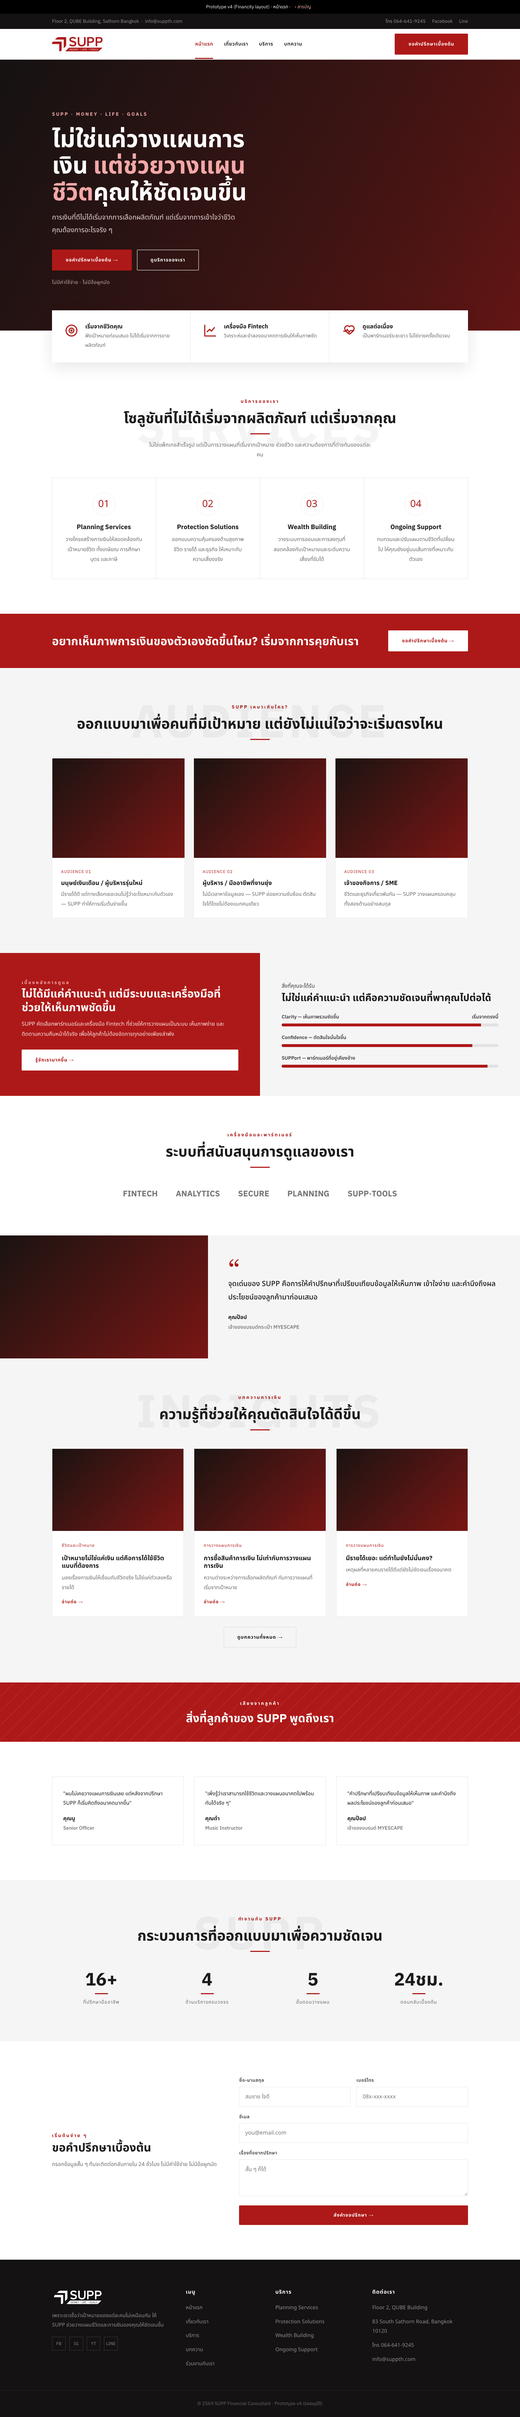
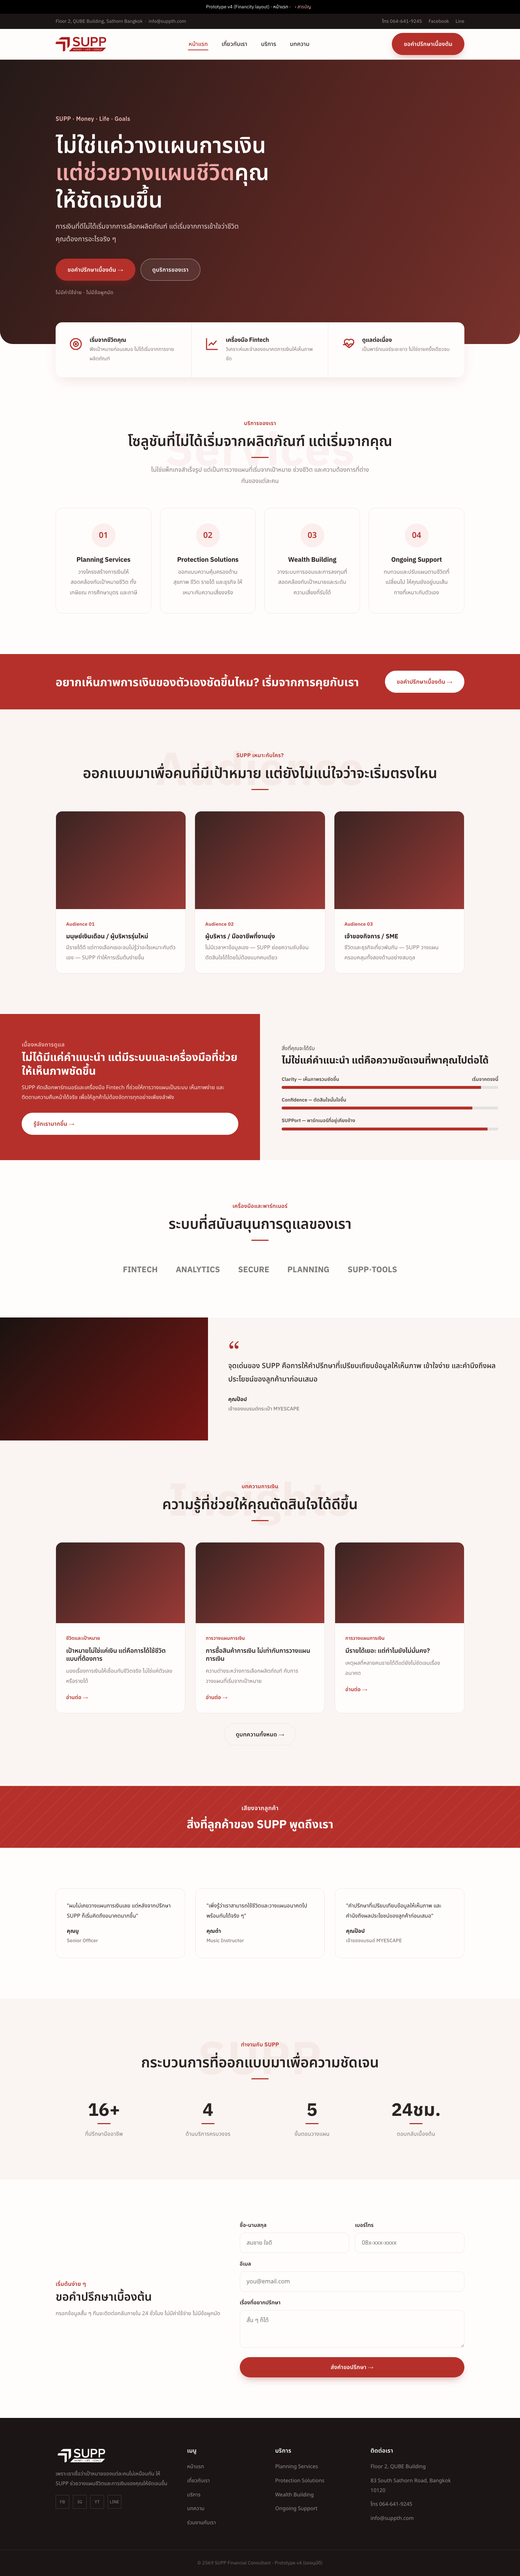
style(phase-4): soften prototype per feedback (too stiff)
- warm off-white palette, warmer red #B5302A
- rounded cards 18px + gap + soft brand-tinted shadows (drop hard grid borders)
- pill buttons, lighter 600 headings, more line-height/spacing
- remove uppercase + heavy letter-spacing (menu/eyebrow/badge/labels)
- rounded hero bottom, softer veil, rounded inputs w/ soft focus ring
- ui-ux-pro-max guidance (soft radius/colored shadow/ease) applied; red CI kept

diff --git a/design/prototype/styles.css b/design/prototype/styles.css
@@ -2,10 +2,12 @@
 /* font: IBM Plex Sans (finance/trust mood, per ui-ux-pro-max) + Noto Sans Thai */
 @import url('https://fonts.googleapis.com/css2?family=IBM+Plex+Sans:wght@400;500;600;700&family=Noto+Sans+Thai:wght@400;500;600;700;800&display=swap');
 :root{
---brand:#AD1918;--brand-dark:#8A1413;--brand-soft:#FBEAEA;
---ink:#1A1A1A;--body:#3A3A3A;--muted:#6A6A6A;
---border:#E8E8E8;--surface:#F5F5F5;--bg:#FFFFFF;--dark:#1C1A1A;--darker:#141212;
---cw:1200px;--head:"IBM Plex Sans","Noto Sans Thai",sans-serif;--thai:"Noto Sans Thai",sans-serif;
+--brand:#B5302A;--brand-dark:#92231F;--brand-soft:#FBEEEC;
+--ink:#2A2422;--body:#4A423F;--muted:#857A75;
+--border:#EDE5E2;--surface:#FAF5F2;--bg:#FFFDFC;--dark:#241E1D;--darker:#1B1615;
+--cw:1180px;--head:"IBM Plex Sans","Noto Sans Thai",sans-serif;--thai:"Noto Sans Thai",sans-serif;
+--rc:18px;--rp:999px;--ri:12px;
+--sh:0 14px 40px -12px rgba(149,35,31,.16);--sh-sm:0 6px 22px -10px rgba(42,36,34,.14);
 }
 *{box-sizing:border-box;margin:0;padding:0}
 html{scroll-behavior:smooth}
@@ -13,22 +15,24 @@ body{font-family:var(--thai);color:var(--body);background:var(--bg);line-height:
 img{max-width:100%;display:block}a{color:var(--brand);text-decoration:none}
 h1,h2,h3,h4{font-family:var(--head);color:var(--ink);line-height:1.25;font-weight:700}
 .wrap{max-width:var(--cw);margin:0 auto;padding:0 24px}
-.sec{padding:96px 0;position:relative}
-@media(max-width:760px){.sec{padding:56px 0}}
+.sec{padding:112px 0;position:relative}
+@media(max-width:760px){.sec{padding:64px 0}}
 .center{text-align:center}
+h1,h2,h3,h4{letter-spacing:-.2px}
 /* watermark heading block */
-.shead{text-align:center;margin-bottom:50px;position:relative}
-.shead .wm{position:absolute;left:50%;top:46%;transform:translate(-50%,-50%);font-family:var(--head);font-weight:700;font-size:clamp(3.5rem,10vw,8rem);color:var(--ink);opacity:.045;letter-spacing:8px;text-transform:uppercase;white-space:nowrap;pointer-events:none}
-.shead .sub{font-family:var(--head);font-weight:700;font-size:.8rem;letter-spacing:3px;text-transform:uppercase;color:var(--brand)}
-.shead h2{font-size:clamp(1.8rem,3.4vw,2.5rem);font-weight:700;margin-top:8px;position:relative}
-.shead h2:after{content:"";display:block;width:54px;height:3px;background:var(--brand);margin:18px auto 0}
-.shead p{max-width:620px;margin:16px auto 0;color:var(--muted)}
-.btn{font-family:var(--head);font-weight:700;font-size:.82rem;letter-spacing:1px;text-transform:uppercase;border:2px solid transparent;padding:15px 36px;cursor:pointer;transition:.18s;display:inline-flex;align-items:center;gap:8px;border-radius:2px}
-.btn-primary{background:var(--brand);color:#fff}.btn-primary:hover{background:var(--brand-dark)}
-.btn-ghost{background:transparent;color:#fff;border-color:rgba(255,255,255,.55)}.btn-ghost:hover{background:#fff;color:var(--ink)}
+.shead{text-align:center;margin-bottom:58px;position:relative}
+.shead .wm{position:absolute;left:50%;top:44%;transform:translate(-50%,-50%);font-family:var(--head);font-weight:700;font-size:clamp(3.5rem,10vw,8rem);color:var(--brand);opacity:.05;letter-spacing:2px;white-space:nowrap;pointer-events:none}
+.shead .sub{font-family:var(--head);font-weight:600;font-size:.95rem;letter-spacing:.3px;color:var(--brand)}
+.shead h2{font-size:clamp(1.8rem,3.4vw,2.5rem);font-weight:600;margin-top:10px;position:relative}
+.shead h2:after{content:"";display:block;width:48px;height:3px;border-radius:3px;background:var(--brand);margin:20px auto 0}
+.shead p{max-width:620px;margin:18px auto 0;color:var(--muted);font-size:1.05rem}
+.btn{font-family:var(--head);font-weight:600;font-size:.98rem;letter-spacing:.2px;border:1.5px solid transparent;padding:15px 32px;cursor:pointer;transition:.25s cubic-bezier(.2,.7,.3,1);display:inline-flex;align-items:center;gap:8px;border-radius:var(--rp)}
+.btn:hover{transform:translateY(-2px)}
+.btn-primary{background:var(--brand);color:#fff;box-shadow:0 10px 24px -10px rgba(149,35,31,.5)}.btn-primary:hover{background:var(--brand-dark)}
+.btn-ghost{background:rgba(255,255,255,.08);color:#fff;border-color:rgba(255,255,255,.5);backdrop-filter:blur(4px)}.btn-ghost:hover{background:#fff;color:var(--brand)}
 .btn-out{background:transparent;color:var(--ink);border-color:var(--border)}.btn-out:hover{background:var(--brand);border-color:var(--brand);color:#fff}
 .btn-white{background:#fff;color:var(--brand)}.btn-white:hover{background:var(--ink);color:#fff}
-.btn:focus-visible{outline:2px solid #fff;outline-offset:3px}
+.btn:focus-visible{outline:2px solid var(--brand);outline-offset:3px}
 /* top bar */
 .topbar{background:var(--darker);color:#9C9594;font-size:.82rem;font-family:var(--head)}
 .topbar .wrap{display:flex;justify-content:space-between;align-items:center;height:42px}
@@ -39,39 +43,43 @@ h1,h2,h3,h4{font-family:var(--head);color:var(--ink);line-height:1.25;font-weigh
 header.top{background:var(--bg);box-shadow:0 1px 0 var(--border);position:sticky;top:0;z-index:50}
 .nav{display:flex;align-items:center;justify-content:space-between;height:84px}
 .logo{display:block;width:140px;height:44px;background:url(logo.png) left center/contain no-repeat;text-indent:-9999px;overflow:hidden;white-space:nowrap;flex:none}
-.menu{display:flex;gap:30px;list-style:none;font-family:var(--head);font-weight:600;font-size:.86rem;letter-spacing:.5px;text-transform:uppercase}
-.menu a{color:var(--ink);padding:30px 0;border-bottom:3px solid transparent}
-.menu a:hover,.menu a.active{color:var(--brand);border-color:var(--brand)}
+.menu{display:flex;gap:34px;list-style:none;font-family:var(--head);font-weight:500;font-size:1rem}
+.menu a{color:var(--ink);padding:8px 2px;position:relative}
+.menu a:after{content:"";position:absolute;left:0;right:100%;bottom:0;height:2px;background:var(--brand);border-radius:2px;transition:right .25s ease}
+.menu a:hover,.menu a.active{color:var(--brand)}
+.menu a:hover:after,.menu a.active:after{right:0}
 .burger{display:none;font-size:1.6rem;background:none;border:0;color:var(--ink)}
 @media(max-width:920px){.menu{display:none}.burger{display:block}}
 /* hero */
-.hero{position:relative;color:#fff;overflow:hidden;background:linear-gradient(120deg,#1a1311,#3a1413 55%,#7a1614);background-size:200% 200%;animation:pan 20s ease-in-out infinite}
+.hero{position:relative;color:#fff;overflow:hidden;border-radius:0 0 36px 36px;background:linear-gradient(120deg,#2a1d1b,#5a2622 50%,#8f3a33);background-size:180% 180%;animation:pan 24s ease-in-out infinite}
 @keyframes pan{0%,100%{background-position:0 50%}50%{background-position:100% 50%}}
 .hero video.bg{position:absolute;inset:0;width:100%;height:100%;object-fit:cover;z-index:0}
-.hero .veil{position:absolute;inset:0;z-index:1;background:linear-gradient(120deg,rgba(20,18,18,.90),rgba(58,20,19,.74) 55%,rgba(122,22,20,.55))}
-.hero .wrap{position:relative;z-index:2;padding:140px 24px 120px}
+.hero .veil{position:absolute;inset:0;z-index:1;background:linear-gradient(120deg,rgba(33,25,23,.82),rgba(90,38,34,.62) 55%,rgba(143,58,51,.42))}
+.hero .wrap{position:relative;z-index:2;padding:150px 24px 130px}
 @media(prefers-reduced-motion:reduce){.hero{animation:none}}
-.hero .sub{font-family:var(--head);font-weight:700;letter-spacing:3px;text-transform:uppercase;font-size:.82rem;color:#F2A8A8}
-.hero h1{font-size:clamp(2.4rem,5.4vw,4.1rem);font-weight:700;color:#fff;line-height:1.12;margin:18px 0;max-width:15ch;letter-spacing:-.5px}
+.hero .sub{font-family:var(--head);font-weight:600;letter-spacing:.3px;font-size:1rem;color:#F4B8B5}
+.hero h1{font-size:clamp(2.3rem,5vw,3.85rem);font-weight:600;color:#fff;line-height:1.22;margin:20px 0;max-width:17ch;letter-spacing:-.2px}
 .hero h1 .hl{color:#F2A8A8}
 .hero p{color:#E7D6D5;font-size:1.18rem;max-width:520px}
 .hero .cta{margin-top:36px;display:flex;gap:14px;flex-wrap:wrap}
 .hero .trust{margin-top:20px;font-family:var(--head);font-size:.86rem;letter-spacing:.5px;color:#C9A9A8}
 /* feature strip under hero */
-.fstrip{background:var(--bg);box-shadow:0 14px 40px rgba(26,26,26,.10);margin-top:-56px;position:relative;z-index:5;display:grid;grid-template-columns:repeat(3,1fr)}
-.fstrip .f{display:flex;gap:16px;align-items:flex-start;padding:34px 32px;border-right:1px solid var(--border)}
+.fstrip{background:var(--bg);box-shadow:var(--sh);border-radius:var(--rc);margin-top:-60px;position:relative;z-index:5;display:grid;grid-template-columns:repeat(3,1fr);overflow:hidden}
+.fstrip .f{display:flex;gap:16px;align-items:flex-start;padding:38px 34px;border-right:1px solid var(--border);transition:.25s}
+.fstrip .f:hover{background:var(--surface)}
 .fstrip .f:last-child{border-right:0}
 .fstrip .ic{flex:none;width:44px;height:44px;color:var(--brand);display:flex;align-items:center;justify-content:center}
 .fstrip .ic svg{width:40px;height:40px}
 .fstrip h3{font-size:1rem;margin-bottom:4px}.fstrip p{font-size:.88rem;color:var(--muted)}
 @media(max-width:820px){.fstrip{grid-template-columns:1fr;margin-top:0}.fstrip .f{border-right:0;border-bottom:1px solid var(--border)}}
 /* grids */
-.grid{display:grid;gap:0}
+.grid{display:grid;gap:24px}
 .svc{grid-template-columns:repeat(3,1fr)}
-.svc .i{padding:40px 36px;border:1px solid var(--border);margin:-1px 0 0 -1px;transition:.2s;text-align:center}
-.svc .i:hover{box-shadow:0 16px 40px rgba(26,26,26,.10);z-index:2;position:relative}
-.svc .ic{width:64px;height:64px;margin:0 auto 20px;display:flex;align-items:center;justify-content:center;color:var(--brand);font-size:1.7rem;border:1px solid var(--brand-soft);border-radius:50%}
-.svc h3{font-size:1.12rem;margin-bottom:10px}.svc p{font-size:.92rem;color:var(--muted)}
+.svc .i{padding:42px 34px;background:var(--bg);border:1px solid var(--border);border-radius:var(--rc);transition:.28s cubic-bezier(.2,.7,.3,1);text-align:center}
+.svc .i:hover{box-shadow:var(--sh);transform:translateY(-6px);border-color:transparent}
+.svc .ic{width:66px;height:66px;margin:0 auto 22px;display:flex;align-items:center;justify-content:center;color:var(--brand);font-size:1.4rem;font-weight:600;background:var(--brand-soft);border-radius:50%;transition:.28s}
+.svc .i:hover .ic{background:var(--brand);color:#fff}
+.svc h3{font-size:1.14rem;margin-bottom:10px}.svc p{font-size:.96rem;color:var(--muted)}
 @media(max-width:860px){.svc{grid-template-columns:1fr 1fr}}@media(max-width:560px){.svc{grid-template-columns:1fr}}
 /* band */
 .band{background:var(--brand);color:#fff}
@@ -84,10 +92,11 @@ header.top{background:var(--bg);box-shadow:0 1px 0 var(--border);position:sticky
 /* cards row (cases/audience) */
 .cards4{grid-template-columns:repeat(4,1fr);gap:24px}
 @media(max-width:920px){.cards4{grid-template-columns:1fr 1fr}}@media(max-width:560px){.cards4{grid-template-columns:1fr}}
-.tile{background:var(--bg);border:1px solid var(--border)}
-.tile .ph{aspect-ratio:4/3;background:linear-gradient(135deg,#1a1311,#7a1614)}
-.tile .b{padding:24px}.tile .b .k{font-family:var(--head);font-size:.72rem;letter-spacing:1px;text-transform:uppercase;color:var(--brand)}
-.tile h3{font-size:1.05rem;margin:8px 0}.tile p{font-size:.9rem;color:var(--muted)}
+.tile{background:var(--bg);border:1px solid var(--border);border-radius:var(--rc);overflow:hidden;transition:.28s cubic-bezier(.2,.7,.3,1)}
+.tile:hover{box-shadow:var(--sh);transform:translateY(-6px);border-color:transparent}
+.tile .ph{aspect-ratio:4/3;background:linear-gradient(135deg,#3a2422,#9a3a36)}
+.tile .b{padding:28px}.tile .b .k{font-family:var(--head);font-size:.82rem;letter-spacing:.3px;color:var(--brand);font-weight:600}
+.tile h3{font-size:1.08rem;margin:8px 0}.tile p{font-size:.94rem;color:var(--muted)}
 /* expert split */
 .xsplit{display:grid;grid-template-columns:1fr 1fr}
 @media(max-width:860px){.xsplit{grid-template-columns:1fr}}
@@ -115,26 +124,26 @@ header.top{background:var(--bg);box-shadow:0 1px 0 var(--border);position:sticky
 /* news */
 .news{grid-template-columns:repeat(3,1fr);gap:28px}
 @media(max-width:860px){.news{grid-template-columns:1fr}}
-.na{background:var(--bg);border:1px solid var(--border);transition:.2s}.na:hover{box-shadow:0 16px 40px rgba(26,26,26,.10);transform:translateY(-5px)}
-.na .ph{aspect-ratio:16/10;background:linear-gradient(135deg,#1a1311,#7a1614)}
-.na .b{padding:26px}.na .date{font-family:var(--head);font-size:.74rem;letter-spacing:1px;text-transform:uppercase;color:var(--brand)}
-.na h3{font-size:1.08rem;margin:10px 0}.na p{font-size:.9rem;color:var(--muted)}
-.na .rm{font-family:var(--head);font-size:.78rem;font-weight:700;letter-spacing:1px;text-transform:uppercase;color:var(--brand);margin-top:14px;display:inline-block}
+.na{background:var(--bg);border:1px solid var(--border);border-radius:var(--rc);overflow:hidden;transition:.28s cubic-bezier(.2,.7,.3,1)}.na:hover{box-shadow:var(--sh);transform:translateY(-6px);border-color:transparent}
+.na .ph{aspect-ratio:16/10;background:linear-gradient(135deg,#3a2422,#9a3a36)}
+.na .b{padding:28px}.na .date{font-family:var(--head);font-size:.85rem;color:var(--brand);font-weight:600}
+.na h3{font-size:1.1rem;margin:10px 0;font-weight:600}.na p{font-size:.94rem;color:var(--muted)}
+.na .rm{font-family:var(--head);font-size:.92rem;font-weight:600;color:var(--brand);margin-top:16px;display:inline-block}
 /* stats */
 .stats{display:grid;grid-template-columns:repeat(4,1fr);gap:20px;text-align:center}
 @media(max-width:620px){.stats{grid-template-columns:1fr 1fr}}
 .stats .v{font-family:var(--head);font-weight:700;font-size:3.1rem;color:var(--ink);line-height:1}
-.stats .k{color:var(--muted);font-family:var(--head);font-size:.82rem;letter-spacing:1px;text-transform:uppercase;margin-top:10px}
+.stats .k{color:var(--muted);font-family:var(--head);font-size:.95rem;letter-spacing:.2px;margin-top:12px}
 .stats .v:after{content:"";display:block;width:36px;height:3px;background:var(--brand);margin:14px auto 0}
 /* callback */
 .cb{display:grid;grid-template-columns:.85fr 1.15fr;gap:50px;align-items:center}
 @media(max-width:820px){.cb{grid-template-columns:1fr}}
-.cb h2{font-size:2rem;font-weight:700}.cb .sub{font-family:var(--head);font-weight:700;font-size:.8rem;letter-spacing:3px;text-transform:uppercase;color:var(--brand)}
+.cb h2{font-size:2rem;font-weight:600}.cb .sub{font-family:var(--head);font-weight:600;font-size:.98rem;letter-spacing:.3px;color:var(--brand)}
 .cb form{display:grid;grid-template-columns:1fr 1fr;gap:16px}
 .cb .full{grid-column:1/-1}
-input,select,textarea{width:100%;font-family:inherit;font-size:.95rem;color:var(--ink);padding:15px 16px;border:1px solid var(--border);background:var(--bg)}
-input:focus,select:focus,textarea:focus{outline:none;border-color:var(--brand)}
-label{display:block;font-family:var(--head);font-weight:600;font-size:.8rem;letter-spacing:.5px;margin-bottom:6px;text-transform:uppercase}
+input,select,textarea{width:100%;font-family:inherit;font-size:1rem;color:var(--ink);padding:15px 18px;border:1px solid var(--border);background:var(--bg);border-radius:var(--ri);transition:.2s}
+input:focus,select:focus,textarea:focus{outline:none;border-color:var(--brand);box-shadow:0 0 0 4px var(--brand-soft)}
+label{display:block;font-family:var(--head);font-weight:600;font-size:.92rem;margin-bottom:8px;color:var(--ink)}
 /* slot picker (book page) */
 .slot{display:grid;grid-template-columns:repeat(4,1fr);gap:10px}
 .slot button{font-family:var(--head);font-weight:600;padding:14px 0;border:1px solid var(--border);background:var(--bg);color:var(--ink);cursor:pointer}
@@ -142,7 +151,7 @@ label{display:block;font-family:var(--head);font-weight:600;font-size:.8rem;lett
 .slot button[aria-pressed=true]{background:var(--brand);color:#fff;border-color:var(--brand)}
 .slot button:disabled{color:#B9B9B9;background:var(--surface);cursor:not-allowed;text-decoration:line-through}
 .crumb{font-size:.85rem;color:var(--muted)}.crumb a{color:var(--brand)}
-.badge{display:inline-block;font-family:var(--head);font-size:.72rem;font-weight:700;letter-spacing:1px;text-transform:uppercase;padding:6px 14px;background:var(--brand-soft);color:var(--brand-dark)}
+.badge{display:inline-block;font-family:var(--head);font-size:.85rem;font-weight:600;letter-spacing:.2px;padding:7px 16px;background:var(--brand-soft);color:var(--brand-dark);border-radius:var(--rp)}
 .mt{margin-top:14px}.mt2{margin-top:28px}.lead{font-size:1.12rem;color:var(--muted)}
 /* footer */
 footer.ft{background:var(--darker);color:#948D8C;padding:80px 0 0}
@@ -150,7 +159,7 @@ footer.ft .logo{width:150px;height:48px;background-image:url(logo-white.png)}
 footer.ft a{color:#948D8C}footer.ft a:hover{color:#fff}
 .ft-grid{display:grid;grid-template-columns:1.6fr 1fr 1.1fr 1.3fr;gap:44px;padding-bottom:60px}
 @media(max-width:860px){.ft-grid{grid-template-columns:1fr 1fr;gap:34px}}@media(max-width:520px){.ft-grid{grid-template-columns:1fr}}
-.ft-grid h4{color:#fff;font-family:var(--head);font-size:.92rem;letter-spacing:1px;text-transform:uppercase;margin-bottom:22px}
+.ft-grid h4{color:#fff;font-family:var(--head);font-size:1.02rem;font-weight:600;letter-spacing:.2px;margin-bottom:22px}
 .ft-grid ul{list-style:none;display:grid;gap:12px;font-size:.9rem}
 .soc{display:flex;gap:10px;margin-top:18px}
 .soc a span{width:38px;height:38px;border:1px solid rgba(255,255,255,.16);display:flex;align-items:center;justify-content:center;font-size:.74rem;font-family:var(--head);transition:.18s}

diff --git a/design/prototype/home.html b/design/prototype/home.html
@@ -59,7 +59,7 @@
 </div></div></section>
 
 <section class="xsplit">
-<div class="l"><div class="sub" style="color:#F2A8A8;font-family:var(--head);font-weight:700;letter-spacing:3px;text-transform:uppercase;font-size:.8rem">เบื้องหลังการดูแล</div>
+<div class="l"><div class="sub" style="color:#F4B8B5;font-family:var(--head);font-weight:600;letter-spacing:.3px;font-size:1rem">เบื้องหลังการดูแล</div>
 <h2>ไม่ได้มีแค่คำแนะนำ แต่มีระบบและเครื่องมือที่ช่วยให้เห็นภาพชัดขึ้น</h2>
 <p>SUPP คัดเลือกพาร์ทเนอร์และเครื่องมือ Fintech ที่ช่วยให้การวางแผนเป็นระบบ เห็นภาพง่าย และติดตามความคืบหน้าได้จริง เพื่อให้ลูกค้าไม่ต้องจัดการทุกอย่างเพียงลำพัง</p>
 <a class="btn btn-white mt2" href="about.html">รู้จักเรามากขึ้น →</a></div>
@@ -94,7 +94,7 @@
 </div></section>
 
 <section class="band pat center"><div class="wrap" style="display:block;text-align:center">
-<div class="sub" style="color:#fff;font-family:var(--head);font-weight:700;letter-spacing:3px;text-transform:uppercase;font-size:.8rem">เสียงจากลูกค้า</div>
+<div class="sub" style="color:#fff;font-family:var(--head);font-weight:600;letter-spacing:.3px;font-size:1.05rem">เสียงจากลูกค้า</div>
 <h2 style="margin-top:8px">สิ่งที่ลูกค้าของ SUPP พูดถึงเรา</h2></div></section>
 
 <section class="sec"><div class="wrap">
